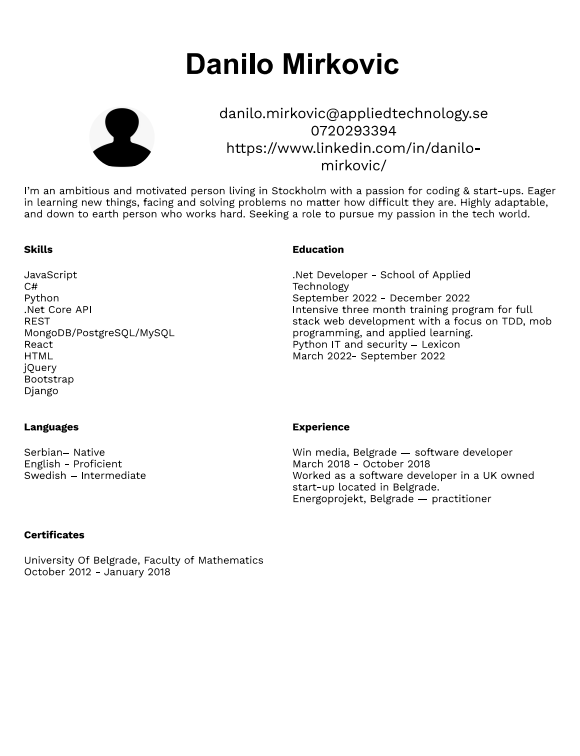
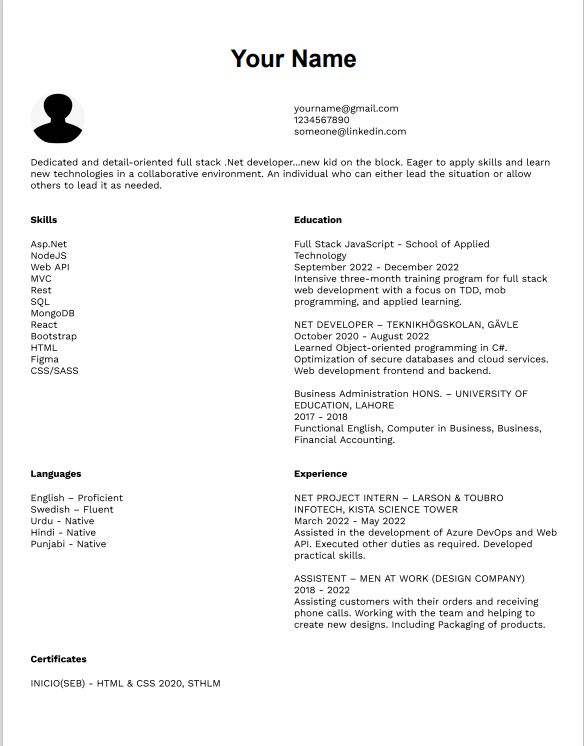
format resume4

diff --git a/cvbuilder/src/Components/Form.js b/cvbuilder/src/Components/Form.js
@@ -49,9 +49,9 @@ function Form() {
     navigate("/Templates");
   }
   return (
-    <div>
+    <div className="form-div">
       <Headerform></Headerform>
-      <h2 id="form-title">Enter your details here...</h2>
+      <h2 className="form-title">Enter your details here...</h2>
       <form className="form-row">
         <article className="form-article">
           <section className="form-section1">
@@ -100,18 +100,31 @@ function Form() {
               value={info.Summary}
             ></textarea>
             <br/>
+
             <label className="labels2">Education</label>
             <br />
-            <textarea onChange={handleChangeFor("Education")} required='required' className="form-textarea"
+            <textarea onChange={handleChangeFor("Education")} required='required'
+              className="form-textarea"
               value={info.Education} rows="8" cols="100"></textarea>
-            <br />
-            <label className="labels2">Work Experince</label>
-            <br />
+            <br /></section>
+
+            <section className="form-section3">
+            <label className="labels2">Work Experince</label><br />
             <textarea className="form-textarea"
               onChange={handleChangeFor("WorkExperince")} required='required'
               value={info.WorkExperince} rows="8" cols="100"
             ></textarea>
             <br />
+            
+            <label className="labels2">Languages</label>
+            <br />
+            <textarea className="form-textarea"
+              onChange={handleChangeFor("Languages")} required='required'
+              value={info.Languages} rows="6" cols="100"
+            ></textarea>
+            <br /></section>
+
+            <section className="form-section4">
             <label className="labels2">Skills</label>
             <br />
             <textarea className="form-textarea"
@@ -119,19 +132,14 @@ function Form() {
               value={info.TechnicalSkills} rows="8" cols="100"
             ></textarea>
             <br />
-            <label className="labels2">Languages</label>
-            <br />
-            <textarea className="form-textarea"
-              onChange={handleChangeFor("Languages")} required='required'
-              value={info.Languages} rows="6" cols="100"
-            ></textarea>
-            <br />
+
             <label className="labels2">Certificates</label>
             <br />
             <textarea className="form-textarea"
               onChange={handleChangeFor("Certificates")}
               value={info.Certificates} rows="4" cols="100"
             ></textarea>
+
           </section>
         </article>
         <button variant="primary" type="submit" id="form-btn"

diff --git a/cvbuilder/src/Components/Form.css b/cvbuilder/src/Components/Form.css
@@ -1,11 +1,20 @@
-#form-title {
+.form-title {
   text-align: center;
   font-family: 'open sans', sans-serif;
   padding: 2rem 0;
   font-size: 2rem;
-  color: black;
+  color: rgb(113, 43, 30);
   margin-top: 50px;
   margin-left: 10px;
+}
+
+.form-div {
+  background-color: #f0eeeb;
+}
+
+.form-row label {
+  font-size: 20px;
+  color: #883b2d;
 }
 
 .form-article {
@@ -21,15 +30,15 @@
   margin-top: 0px;
 }
 
-.form-section2 {
-  margin-left: 10px;
+.form-section2 , .form-section3, .form-section4{
+  margin: auto;
 }
 
 .form-input {
   margin: 12px 10px;
   border: 1px solid black;
   padding: 8px 5px;
-  border-radius: 25px;
+  border-radius: 5px;
   width: 75%;
 }
 
@@ -57,18 +66,14 @@ textarea {
   border: none;
   border-radius: 3px;
   margin-bottom: 10px;
-  margin-left: 130px;
-  background-color: #FF7961;
+  margin-left: 150px;
+  background-color: #6d3329;
   color: white;
 }
 
 @media screen and (min-width: 501px) {
-  #form-title {
-    text-align: center;
-    font-family: 'open sans', sans-serif;
-    padding: 2rem 0;
-    font-size: 2rem;
-    color: black;
+  .form-title {
+    font-size: 50px;
     margin-top: 50px;
     margin-left: 10px;
   }
@@ -77,19 +82,22 @@ textarea {
     display: grid;
     grid-template-columns: 1fr 1fr;
     align-items: center;
-    justify-content: space-between;
+    justify-content: space-around;
   }
 
   .form-section1 {
-    margin-left: 280px;
-    margin-top: -540px;
+    margin-left: 180px;
+  }
+  .form-section3 {
+    margin-left: 100px;
+    margin-top: 0px;
+  }
+  
+  .form-section2, .form-section4 {
+    margin-left: 10px;
   }
 
   .form-input {
-    margin: 12px 10px;
-    border: 1px solid black;
-    padding: 8px 5px;
-    border-radius: 25px;
     width: 60%;
   }
 
@@ -104,21 +112,12 @@ textarea {
     height: 8em;
     width: 40em;
     margin: 10px 0;
-    border-radius: 5px;
-  }
-
-  textarea {
-    resize: none;
   }
 
   #form-btn {
-    padding: 10px 40px;
-    border: none;
-    border-radius: 3px;
+    cursor: pointer;
     margin-bottom: 10px;
     margin-left: 470px;
-    background-color: #FF7961;
-    color: white;
     width: 30%;
   }
 }

diff --git a/cvbuilder/src/Components/Resume4.js b/cvbuilder/src/Components/Resume4.js
@@ -1,8 +1,8 @@
 import React from "react";
-import './Resume.css';
+import './Resume4.css';
 
 function Resume4 () {
-    const name = localStorage.getItem("Name");
+    const name = localStorage.getItem("Name").toUpperCase();
     const email = localStorage.getItem("Email");
     const phoneNumber = localStorage.getItem("PhoneNumber");
     const linkedIn = localStorage.getItem("LinkedIn");
@@ -22,7 +22,7 @@ function Resume4 () {
         printButton.style.visibility = 'visible';
     }
     return (
-        <section id="resume4">
+        <section id="resume4" className="cv4">
              <style>
               {`@media print {#resume4 {
     margin: auto;
@@ -35,16 +35,18 @@ function Resume4 () {
                 <span>{phoneNumber}</span><br />
                 <span>{linkedIn}</span><br />
             </article>
+            <h4>SUMMARY</h4>
             <p>{summary}</p>
-            <section className="cv-section">
-            <div className="cv-content"><h4>Skills</h4>
-                <p dangerouslySetInnerHTML={{ __html: technicalSkills }}/></div>
                 <div className="cv-content"><h4>Education</h4>
                 <p dangerouslySetInnerHTML={{ __html: education }} /></div>
-                <div className="cv-content"><h4>Languages</h4>
-                <p dangerouslySetInnerHTML={{ __html: languages }}/></div>
                 <div className="cv-content"><h4>Experience</h4>
                 <p dangerouslySetInnerHTML={{ __html: workExperince }}/></div>
+
+                <section className="cv-section">
+                <div className="cv-content"><h4>Skills</h4>
+                <p dangerouslySetInnerHTML={{ __html: technicalSkills }}/></div>
+                <div className="cv-content"><h4>Languages</h4>
+                <p dangerouslySetInnerHTML={{ __html: languages }}/></div>               
                 <div className="cv-content"><h4>Certificates</h4>
                 <p dangerouslySetInnerHTML={{ __html: certificates }}/></div>
             </section>

diff --git a/cvbuilder/src/Components/Templates.js b/cvbuilder/src/Components/Templates.js
@@ -3,13 +3,15 @@ import Headerform from "./Headerform";
 import { Link} from 'react-router-dom';
 import Template1 from '../Pictures/Template1.png';
 import Template2 from '../Pictures/Template2.png';
+import Template3 from '../Pictures/Template3.png';
+import Template4 from '../Pictures/Template4.png';
 import './Templates.css';
 
 function Templates() {
     return (
         <><Headerform></Headerform>
         <div className="template">
-        <h1 className="template-heading">Please select a template for your resume</h1>
+        <h1 className="template-heading">Choose a template for your resume</h1>
         <section>
         <Link to="/Resume">
         <img className="template-pics" src={Template1} alt="welcome pic"/>
@@ -18,10 +20,10 @@ function Templates() {
         <img className="template-pics" src={Template2} alt="welcome pic" />
         </Link>
         <Link to="/Resume3">
-        <img className="template-pics" src={Template1} alt="welcome pic" />
+        <img className="template-pics" src={Template3} alt="welcome pic" />
         </Link>
         <Link to="/Resume4">
-        <img className="template-pics" src={Template1} alt="welcome pic" />
+        <img className="template-pics" src={Template4} alt="welcome pic" />
         </Link>
         </section>
         </div>

diff --git a/cvbuilder/src/Components/Resume4.css b/cvbuilder/src/Components/Resume4.css
@@ -6,3 +6,42 @@
     max-width: 60%;
   }
 
+.cv-section {
+  display: grid;
+  grid-template-columns: 1fr 1fr 1fr;
+  margin-bottom: 5px;
+}
+
+.cv-heading {
+  color: crimson;
+  font-size: 50px;
+  margin-bottom: 5px;
+  padding: 5px;
+}
+
+.cv4 h4 {
+  font-size: 30px;
+  background-color: rgb(235, 83, 114);
+  color: rgb(250, 247, 248);
+  margin-bottom: 5px;
+  margin-top: 5px;
+}
+
+#printpagebutton4 {
+  border-radius: 25px;
+    width: 20%;
+    height: 40px;
+    font-size: 1.3rem;
+    color: white;
+    font-weight: 700;
+    background: rgb(235, 83, 114);
+    border: 0px;
+    cursor: pointer;
+    margin-top: 25px;
+}
+
+#printpagebutton4:hover {
+  opacity: .7;
+}
+
+

diff --git a/cvbuilder/src/Components/Resume3.css b/cvbuilder/src/Components/Resume3.css
@@ -26,3 +26,20 @@
 .template-content3 h4 {
  color: rgb(25, 137, 102);
 }
+
+#printpagebutton3 {
+    border-radius: 25px;
+      width: 20%;
+      height: 40px;
+      font-size: 1.3rem;
+      color: white;
+      font-weight: 700;
+      background: rgb(25, 137, 102);
+      border: 0px;
+      cursor: pointer;
+      margin-top: 25px;
+  }
+  
+  #printpagebutton3:hover {
+    opacity: .7;
+  }

diff --git a/cvbuilder/src/Components/Resume.css b/cvbuilder/src/Components/Resume.css
@@ -39,4 +39,20 @@
   font-size: 30px;
 }
 
+#printpagebutton {
+  border-radius: 25px;
+    width: 20%;
+    height: 40px;
+    font-size: 1.3rem;
+    color: white;
+    font-weight: 700;
+    background: linear-gradient(90deg, rgb(255, 124, 101) 0%, rgb(255, 102, 46) 100%);
+    border: 0px;
+    cursor: pointer;
+    margin-top: 25px;
+}
+
+#printpagebutton:hover {
+  opacity: .7;
+}
 

diff --git a/cvbuilder/src/Components/Resume2.css b/cvbuilder/src/Components/Resume2.css
@@ -44,3 +44,20 @@
 .resume2-content3 {
     margin-top: 0px;
 } 
+
+#printpagebutton2 {
+    border-radius: 25px;
+      width: 20%;
+      height: 40px;
+      font-size: 1.3rem;
+      color: white;
+      font-weight: 700;
+      background: black;
+      border: 0px;
+      cursor: pointer;
+      margin-top: 25px;
+  }
+  
+  #printpagebutton2:hover {
+    opacity: .7;
+  }

diff --git a/cvbuilder/src/Components/Templates.css b/cvbuilder/src/Components/Templates.css
@@ -2,6 +2,10 @@
     margin: 100px;
 }
 
+.template-heading {
+    font-size: 50px;
+}
+
 .template-pics {
     width: 200px;
     height: 300px;
